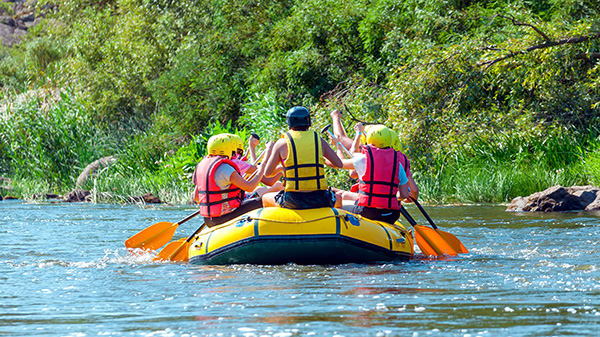
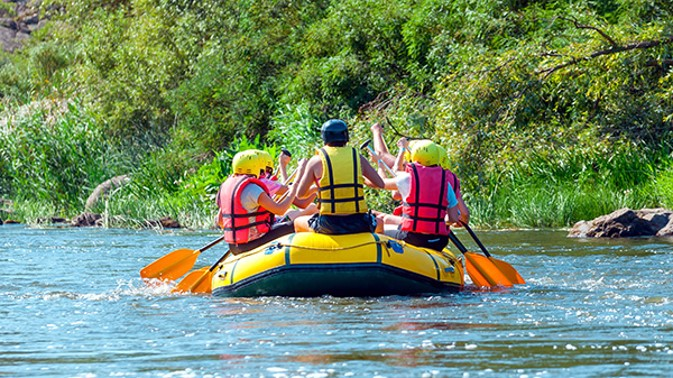
lc

diff --git a/wwr/index.html b/wwr/index.html
@@ -5,11 +5,13 @@
     <meta http-equiv="X-UA-Compatible" content="IE=edge">
     <meta name="viewport" content="width=device-width, initial-scale=1.0">
     <title>Whitewater Rafting | White Water Rafting | Home</title>
+    <link rel="stylesheet" href="styles/style.css">
 </head>
 <body>
+    <div id="content">
     <header>
         <a id="logo_link"  href="index.html">
-            <img src ="images/logo.png" alt="logo">
+            <img src ="images/logo.png" alt="logo" class="logo">
         </a>
         <nav>
             <a href="index.html">Home</a>
@@ -20,7 +22,7 @@
     </header>
     <div id="hero">
         <div id="hero-box">
-            <img id="hero-img" src="images/hero.png" alt="People enjoying rafting">
+            <img id="hero-img" src="images/hero.jpg" alt="People enjoying rafting">
         </div>
         <section  id="hero-msg">
             <h1 class="home-title">Extreme Adventure is waiting for you</h1>
@@ -46,6 +48,7 @@
             <img src="https://byui-wdd.github.io/wdd130/rafting_images/oars.png" alt="oars icon" class="icon">
             <h2>Repids</h2>
         </section>
+        <div id="background"></div> 
         <img src="images/frinds.jpg" alt="Misty mountains" class="mountains">
         <section class="msg">
             <h2>More Than Just The Thrill</h2>
@@ -61,16 +64,17 @@
         <p><a href="site-plan-rafting.html">Site Plan</a></p>
         <p><a href="contactus.html">Contact Us</a></p>
         <div class="social">
-            <a href="https://facebook.com">
+            <a href="https://facebook.com" target="_blank">
                 <img src="images/fb.jpg" alt="fb icon">
             </a>
-            <a href="https://twitter.com">
+            <a href="https://twitter.com" target="_blank">
                 <img src="images/tw.jpg" alt="twitter icon">
             </a>
-            <a href="https://instagram.com">
+            <a href="https://instagram.com" target="_blank">
                 <img src="images/ins.jpg" alt="instagram icon">
             </a>
         </div>
     </footer>
+    </div>
 </body>
 </html>

diff --git a/wwr/styles/style.css b/wwr/styles/style.css
@@ -1,0 +1,51 @@
+#content{
+    max-width: 1600px;
+    margin: 0 auto;
+}
+#hero-msg h1, #hero-msg h4, .button-box,main section{
+    text-align: center;
+}
+nav a{
+    color: #F3FAF4; 
+    text-decoration: none;
+    text-align: center;
+}
+#background {
+    height: 725px;
+    background-color: #56BD90;
+}
+body{
+    background-color: #F3FAF4;
+}
+header {
+    background-color: #56BD90;
+}
+nav a:hover {
+    background-color: rgb(164, 174, 174);
+}
+.book, .join, .msg {
+    background-color: #3F91C7;
+    color: #F3FAF4;
+    text-decoration: none;
+}
+.book:hover, .join:hover{
+    background-color: #A4AEAE;
+}
+footer{
+    background-color: #A4AEAE;
+    font-size: 1.2em;
+}
+footer a {
+    color: black;
+    text-decoration: none;
+}
+footer a:hover {
+    color:#F3FAF4;
+    text-decoration: underline;
+}
+.logo{
+    width: 80px;
+}
+.icon {
+    width: 80px;
+}
